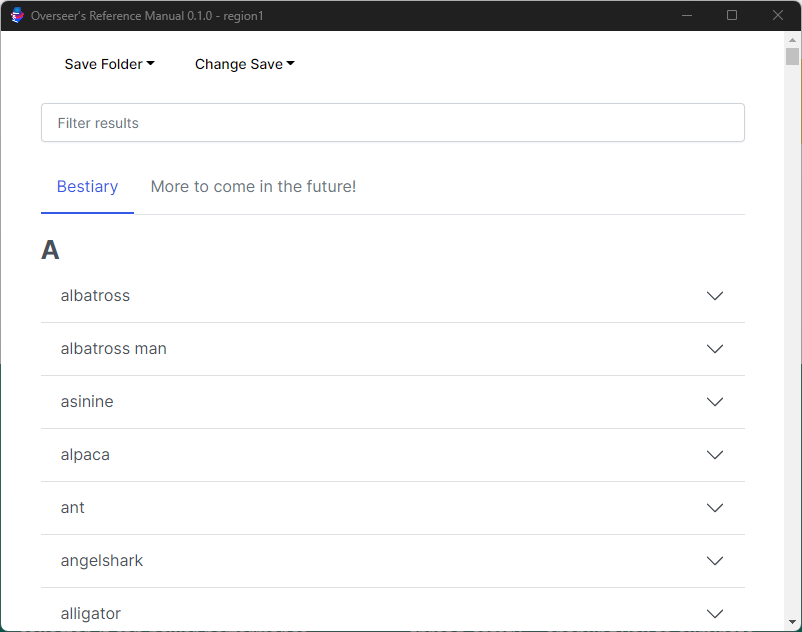
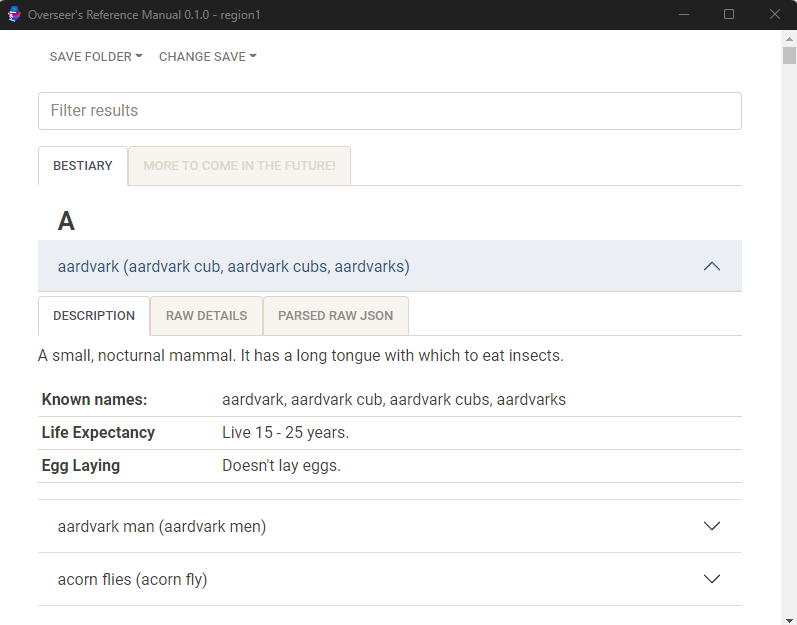
chore: :lipstick: change bootswatch theme

diff --git a/src/index.tsx b/src/index.tsx
@@ -1,5 +1,5 @@
 /* @refresh reload */
-import 'bootswatch/dist/zephyr/bootstrap.css';
+import 'bootswatch/dist/sandstone/bootstrap.css';
 import './custom.css';
 import { render } from 'solid-js/web';
 
